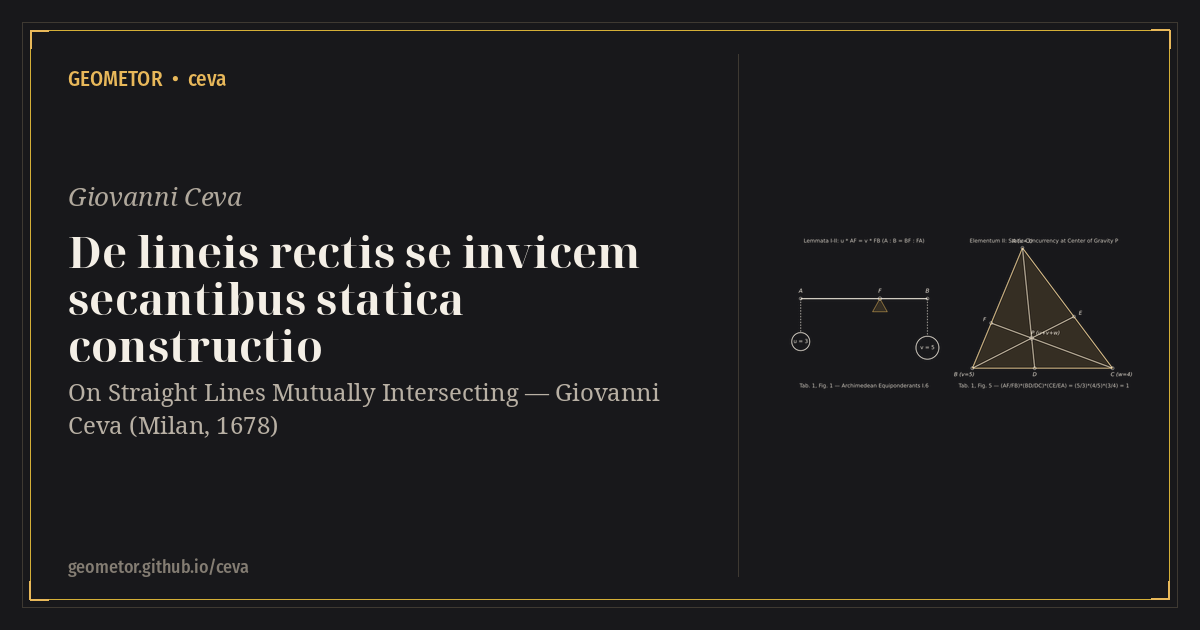
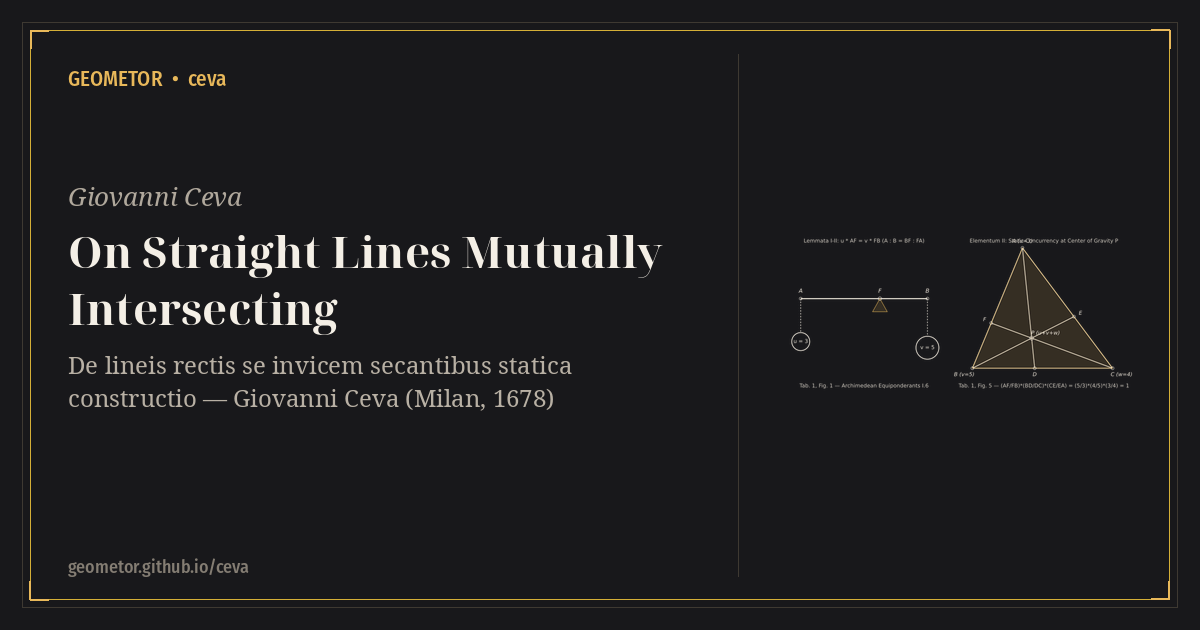
docs: add construction hero images, elevate English titles with native title tracks, and standardize track menus

Changed region(s): [[0.0617, 0.3619, 0.555, 0.6937]]

diff --git a/docsrc/de_lineis_rectis/title-la.rst b/docsrc/de_lineis_rectis/title-la.rst
@@ -1,0 +1,57 @@
+:type: book_title
+:layout: book
+:title: De lineis rectis se invicem secantibus statica constructio
+:book_title: De lineis rectis se invicem secantibus statica constructio
+:book_subtitle: Ioannes Ceva (Mediolani, MDCLXXVIII)
+:author: Ioannes Ceva
+:toc_label: Conspectus
+:persons_label: Index Nominum
+:bibliography_label: Bibliographia
+:glossary_label: Glossarium
+:tracks: English: index | Latin: title-la
+
+.. _de-lineis-rectis-title-la:
+
+De lineis rectis se invicem secantibus statica constructio
+==========================================================
+
+.. rubric:: *Ioannes Ceva* — Mediolani, Ex Typographia Ludovici Montiae, MDCLXXVIII
+
+.. container:: title-page
+
+   | **Auctor:** :person:`Ioannes Ceva <ceva>` (1647–1734)
+   | **Editio Princeps (Mediolani, 1678):** *De Lineis Rectis Se Invicem Secantibus Statica Constructio*
+
+----
+
+Conspectus Totius Operis
+------------------------
+
+Statica Prolegomena · Dedicatio, Typographus et Prooemium
+~~~~~~~~~~~~~~~~~~~~~~~~~~~~~~~~~~~~~~~~~~~~~~~~~~~~~~~~~
+
+:ref:`Latin <unit-1-statica-foundations-la>` · :ref:`English <unit-1-statica-foundations-en>`
+
+Liber Primus · Axiomata, Ceva, Menelaus et Statica Trium Dimensionum
+~~~~~~~~~~~~~~~~~~~~~~~~~~~~~~~~~~~~~~~~~~~~~~~~~~~~~~~~~~~~~~~~~~~~
+
+:ref:`Latin <unit-2-liber-primus-ceva-menelaus-la>` · :ref:`English <unit-2-liber-primus-ceva-menelaus-en>`
+
+Liber Secundus · Sectiones Conicae, Coniugata Isotomica et Polygona Imparia
+~~~~~~~~~~~~~~~~~~~~~~~~~~~~~~~~~~~~~~~~~~~~~~~~~~~~~~~~~~~~~~~~~~~~~~~~~~~
+
+:ref:`Latin <unit-3-liber-secundus-polygons-solids-la>` · :ref:`English <unit-3-liber-secundus-polygons-solids-en>`
+
+Appendix Geometrica · Rationes Arearum, Ungula, Centroida et Indivisibilia
+~~~~~~~~~~~~~~~~~~~~~~~~~~~~~~~~~~~~~~~~~~~~~~~~~~~~~~~~~~~~~~~~~~~~~~~~~~
+
+:ref:`Latin <unit-4-appendix-geometrica-la>` · :ref:`English <unit-4-appendix-geometrica-en>`
+
+----
+
+Apparatus Criticus
+------------------
+
+* :ref:`Bibliographia <bibliography>`
+* :ref:`Index Nominum <persons>`
+* :ref:`Glossarium <glossary>`

diff --git a/README.rst b/README.rst
@@ -3,6 +3,11 @@ GEOMETOR • ceva
 
 **Visit the Online Archive:** https://geometor.github.io/ceva/
 
+.. image:: docsrc/_static/figures/fig02_ceva_interior_exterior.svg
+   :alt: GEOMETOR • ceva featured geometric construction
+   :target: https://geometor.github.io/ceva/
+   :align: center
+
 **Giovanni Ceva • De lineis rectis se invicem secantibus statica constructio • semantic digital archive**
 
 Mission
@@ -13,7 +18,7 @@ Mission
 Books in This Archive
 ---------------------
 
-- **`De lineis rectis se invicem secantibus statica constructio <https://geometor.github.io/ceva/de_lineis_rectis/>`_** — Giovanni Ceva's 1678 foundational masterpiece, establishing static barycentrics, signed weights, Ceva's Theorem, Menelaus's Theorem, and 3D tetrahedral concurrency.
+- **`On Straight Lines Mutually Intersecting <https://geometor.github.io/ceva/de_lineis_rectis/>`_** — Giovanni Ceva's 1678 foundational masterpiece (*De lineis rectis se invicem secantibus statica constructio*), establishing static barycentrics, signed weights, Ceva's Theorem, Menelaus's Theorem, and 3D tetrahedral concurrency.
 
 Repository Contents
 -------------------

diff --git a/docsrc/de_lineis_rectis/index.rst b/docsrc/de_lineis_rectis/index.rst
@@ -1,14 +1,16 @@
 :navigation: header
 :order: 1
 :type: book
-:nav_title: De Lineis Rectis
-:breadcrumb_title: De Lineis Rectis
+:title: On Straight Lines Mutually Intersecting
+:nav_title: On Straight Lines
+:breadcrumb_title: On Straight Lines
 :layout: book
-:book_title: De lineis rectis se invicem secantibus statica constructio
-:book_subtitle: On Straight Lines Mutually Intersecting — Giovanni Ceva (Milan, 1678)
+:book_title: On Straight Lines Mutually Intersecting
+:book_subtitle: De lineis rectis se invicem secantibus statica constructio — Giovanni Ceva (Milan, 1678)
 :author: Giovanni Ceva
 :year: 1678
 :folio: 0010
+:tracks: English: index | Latin: title-la
 :excerpt: Giovanni Ceva's landmark 1678 Milan treatise applying Archimedean statics and the law of the lever to geometric concurrency and ratio geometry.
 
 .. _de-lineis-rectis-codex:
@@ -48,3 +50,10 @@ Table of Contents
    bibliography
    persons
    glossary
+
+.. toctree::
+   :maxdepth: 1
+   :hidden:
+   :caption: Title Pages
+
+   title-la

diff --git a/docsrc/de_lineis_rectis/appendix_geometrica/index.rst b/docsrc/de_lineis_rectis/appendix_geometrica/index.rst
@@ -1,7 +1,7 @@
 :layout: book
 :order: 4
 :canonical_id: appendix_geometrica
-:breadcrumb_title: Appendix Geometrica
+:breadcrumb_title: Geometric Appendix
 :folio: 0090
 :tracks: English: index | Latin: la | Summary: summary | Notes: notes
 
@@ -10,8 +10,8 @@
 .. _appendix-geometrica:
 .. _appendix-geometrica-en:
 
-Appendix Geometrica · Area Ratios, Ungula, Centroids & Indivisibles (pp. 73–104)
-==========================================================================================
+Geometric Appendix · Area Ratios, Ungula, Centroids & Indivisibles (pp. 73–104)
+===============================================================================
 
 .. rubric:: *Original GEOMETOR English translation from Giovanni Ceva's De lineis rectis se invicem secantibus statica constructio* (:cite:`Milan: Ludovico Monza, 1678 <ceva:1678:dlr>`, *Appendix Geometrica*, pp. 73–104; Scans 0090–0100; `Tab. 8–10, Figs. 62–85`).
 

diff --git a/docsrc/de_lineis_rectis/liber_secundus/index.rst b/docsrc/de_lineis_rectis/liber_secundus/index.rst
@@ -1,7 +1,7 @@
 :layout: book
 :order: 3
 :canonical_id: liber_secundus
-:breadcrumb_title: Liber Secundus
+:breadcrumb_title: Book II
 :folio: 0062
 :tracks: English: index | Latin: la | Summary: summary | Notes: notes
 
@@ -10,8 +10,8 @@
 .. _liber-secundus:
 .. _liber-secundus-en:
 
-Liber Secundus · Circumscribed Conics, Isotomic Conjugates & Odd Polygons (pp. 45–72)
-===============================================================================================
+Book II · Circumscribed Conics, Isotomic Conjugates & Odd Polygons (pp. 45–72)
+==============================================================================
 
 .. rubric:: *Original GEOMETOR English translation from Giovanni Ceva's De lineis rectis se invicem secantibus statica constructio* (:cite:`Milan: Ludovico Monza, 1678 <ceva:1678:dlr>`, *Liber Secundus*, Lemma I & Props. I–XIV, pp. 45–72; Scans 0062–0089; `Tab. 4–7, Figs. 32–61`).
 

diff --git a/docsrc/de_lineis_rectis/statica_prolegomena/index.rst b/docsrc/de_lineis_rectis/statica_prolegomena/index.rst
@@ -1,7 +1,7 @@
 :layout: book
 :order: 1
 :canonical_id: statica_prolegomena
-:breadcrumb_title: Statica Prolegomena
+:breadcrumb_title: Statical Prolegomena
 :folio: 0010
 :tracks: English: index | Latin: la | Summary: summary | Notes: notes
 
@@ -10,8 +10,8 @@
 .. _statica-prolegomena:
 .. _statica-prolegomena-en:
 
-Statica Prolegomena · Dedication, Typographus & Prooemium (1678)
-===========================================================================
+Statical Prolegomena · Dedication, Printer's Note & Prooemium (1678)
+====================================================================
 
 .. rubric:: *Original GEOMETOR English translation from Giovanni Ceva's De lineis rectis se invicem secantibus statica constructio* (:cite:`Milan: Ludovico Monza, 1678 <ceva:1678:dlr>`, Frontmatter, PDF pp. 10–17, Scans 0010–0017).
 

diff --git a/docsrc/de_lineis_rectis/liber_primus/index.rst b/docsrc/de_lineis_rectis/liber_primus/index.rst
@@ -1,7 +1,7 @@
 :layout: book
 :order: 2
 :canonical_id: liber_primus
-:breadcrumb_title: Liber Primus
+:breadcrumb_title: Book I
 :folio: 0018
 :tracks: English: index | Latin: la | Summary: summary | Notes: notes
 
@@ -10,8 +10,8 @@
 .. _liber-primus:
 .. _liber-primus-en:
 
-Liber Primus · Axiomata, Ceva, Menelaus & 3D Statics (pp. 1–44)
-===========================================================================
+Book I · Axioms, Ceva, Menelaus & 3D Statics (pp. 1–44)
+=======================================================
 
 .. rubric:: *Original GEOMETOR English translation from Giovanni Ceva's De lineis rectis se invicem secantibus statica constructio* (:cite:`Milan: Ludovico Monza, 1678 <ceva:1678:dlr>`, *Liber Primus*, pp. 1–44; Scans 0018–0061; `Tab. 1–3, Figs. 1–31`).
 
